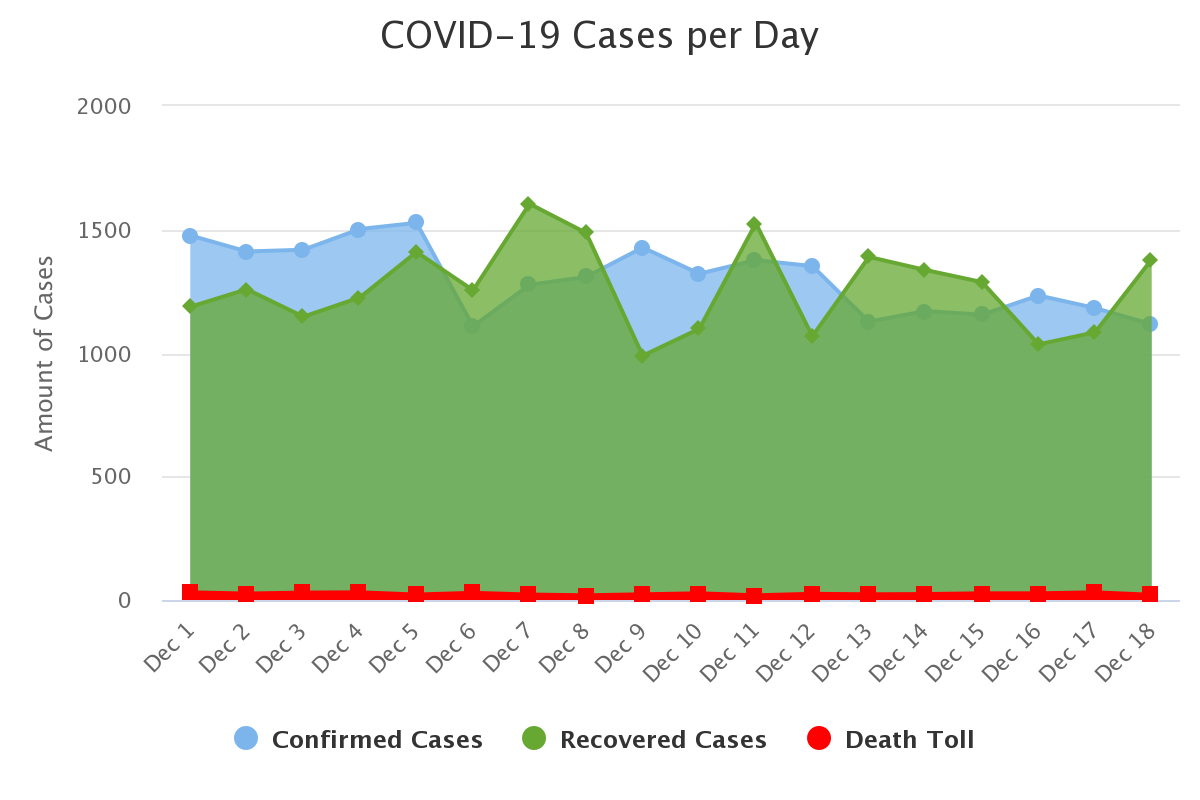
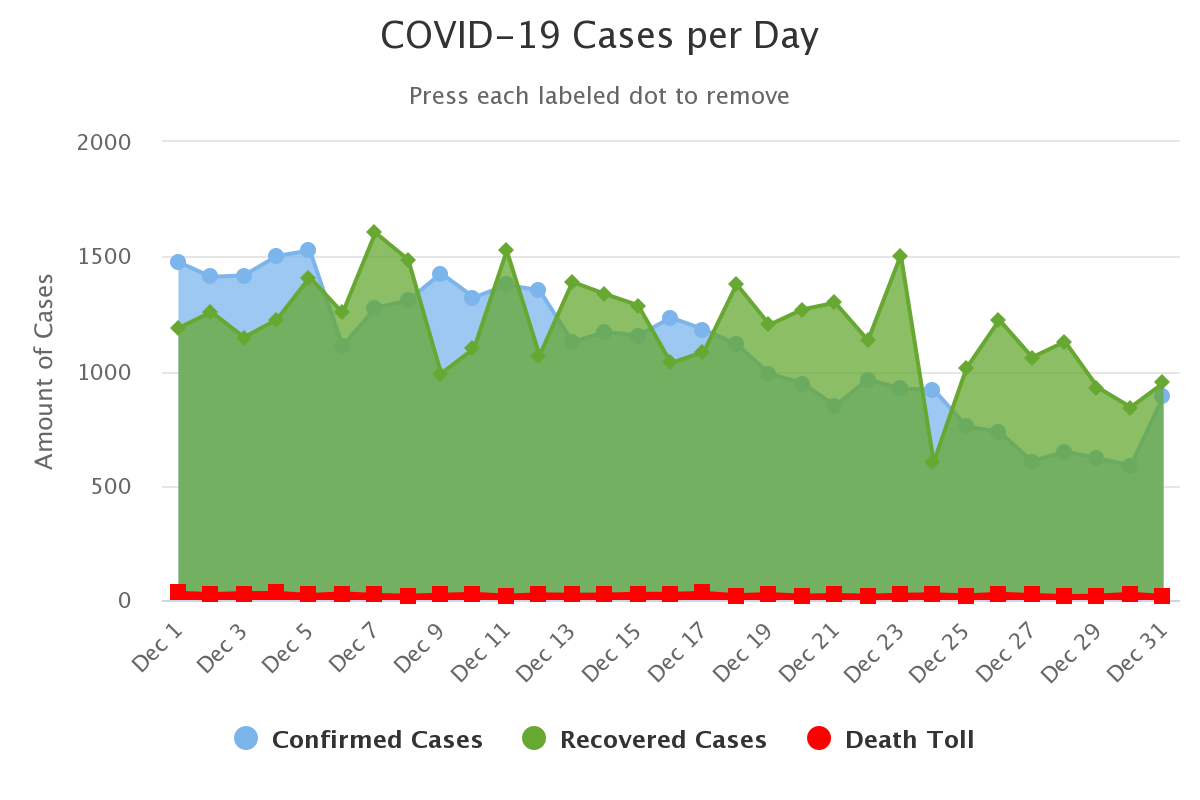
Coronavirus Data Update

diff --git a/InfoPage.html b/InfoPage.html
@@ -20,7 +20,7 @@
 <meta name="keywords" content="COVID-19,Info,ကိုဗစ်">
 <meta name="description" style="font-family:Unicode;" content="ဤ ၀က်ဘ်ဆိုက်တွင် မြန်မာနိုင်ငံနှင့်သက်ဆိုင်သော COVID-19 အချက်အလက်များနှင့် သတင်းအချက်အလက်များကို ရှာဖွေဖတ်ရှု့နိုင်ပါသည်။">
 <meta property="og:image" content="https://covid-19infoweb.netlify.app/images1/icon.png"/>
-<meta property="og:description" style="font-family:Unicode;" content="ဒီဇင်ဘာ ၃၀ ရက်၊ ည ၈:၀၀ ထုတ်ပြန်သောသတင်း" />
+<meta property="og:description" style="font-family:Unicode;" content="ဒီဇင်ဘာ ၃၁ ရက်၊ ည ၈:၀၀ ထုတ်ပြန်သောသတင်း" />
 <meta property="og:title" style="font-family:Unicode;" content="မြန်မာနိုင်ငံတွင်ကိုဗစ်ဖြစ်ပွားနေမှုအခြေအနေ" />
 <meta property="og:url" content="https://covid-19infoweb.netlify.app/" />
 <meta property="og:type"          content="informative website" />
@@ -99,7 +99,7 @@
             <div class="col-md-12 col-sm-12">
               <hr style="margin-bottom: 10px; background: #3F51B5">
  <marquee bgcolor="#3F51B5"> 
-  <div class="running" style='font-family:Unicode;font-size: 20px; color: #FFFFFF; font-weight: 600px'> ကျန်းမာရေးနှင့်အားကစားဝန်ကြီးဌာန၏ ဒီဇင်ဘာ ၃၀ ရက်၊ ည ၈:၀၀ တွင် ထုတ်ပြန်သောသတင်းအရ မြန်မာနိုင်ငံတွင် စစ်ဆေးပြီးသည့်ဓာတ်ခွဲနမူနာစုစုပေါင်း ၁,၇၉၄,၂၅၃ ခု၊ ဓာတ်ခွဲအတည်ပြုလူနာစုစုပေါင်း ၁၂၃,၄၇၀ ဦး၊ ပြန်လည်ကောင်းမွန်လာသူစုစုပေါင်း ၁၀၆,၁၂၁ ဦး၊ နှင့် သေဆုံးလူနာစုစုပေါင်း ၂,၆၆၄ ဦး ရှိပါသည်။ ။
+  <div class="running" style='font-family:Unicode;font-size: 20px; color: #FFFFFF; font-weight: 600px'> ကျန်းမာရေးနှင့်အားကစားဝန်ကြီးဌာန၏ ဒီဇင်ဘာ ၃၁ ရက်၊ ည ၈:၀၀ တွင် ထုတ်ပြန်သောသတင်းအရ မြန်မာနိုင်ငံတွင် စစ်ဆေးပြီးသည့်ဓာတ်ခွဲနမူနာစုစုပေါင်း ၁,၈၁၈,၂၆၀ ခု၊ ဓာတ်ခွဲအတည်ပြုလူနာစုစုပေါင်း ၁၂၄,၆၃၀ ဦး၊ ပြန်လည်ကောင်းမွန်လာသူစုစုပေါင်း ၁၀၇,၀၆၉ ဦး၊ နှင့် သေဆုံးလူနာစုစုပေါင်း ၂,၆၈၂ ဦး ရှိပါသည်။ ။
   </div>
     </marquee>
  <hr style=" margin-top: 4px; background:#3F51B5">

diff --git a/js/chart.js b/js/chart.js
@@ -1,5 +1,5 @@
 
-  var xAxisCatEnco = JSON.parse(`["Dec 1","Dec 2","Dec 3","Dec 4","Dec 5","Dec 6","Dec 7","Dec 8","Dec 9","Dec 10","Dec 11","Dec 12","Dec 13","Dec 14","Dec 15","Dec 16","Dec 17","Dec 18","Dec 19","Dec 20","Dec 21","Dec 22","Dec 23","Dec 24","Dec 25","Dec 26","Dec 27","Dec 28","Dec 29","Dec 30"]`);
+  var xAxisCatEnco = JSON.parse(`["Dec 1","Dec 2","Dec 3","Dec 4","Dec 5","Dec 6","Dec 7","Dec 8","Dec 9","Dec 10","Dec 11","Dec 12","Dec 13","Dec 14","Dec 15","Dec 16","Dec 17","Dec 18","Dec 19","Dec 20","Dec 21","Dec 22","Dec 23","Dec 24","Dec 25","Dec 26","Dec 27","Dec 28","Dec 29","Dec 30","Dec 31"]`);
         
   Highcharts.chart('daily_analytics_chart', {
   chart: {
@@ -24,7 +24,7 @@
             },
   series: [{
     name: 'Tests per day',
-    data: [18959,19680,22719,21390,23300,18541,19379,23348,20826,22241,20929,24099,18564,19115,23874,23109,23188,24501,22590,20526,21018,23485,23072,21515,19543,20143,16607,19108,18098,17010],
+    data: [18959,19680,22719,21390,23300,18541,19379,23348,20826,22241,20929,24099,18564,19115,23874,23109,23188,24501,22590,20526,21018,23485,23072,21515,19543,20143,16607,19108,18098,17010,24007],
     color: "black"
   }]
 });
@@ -51,15 +51,15 @@
             },
   series: [{
     name: 'Confirmed Cases',
-    data: [1476,1411,1418,1502,1527,1108,1276,1308,1427,1321,1376,1352,1127,1170,1155,1233,1182,1116,989,947,848,964,923,919,758,734,606,648,619,587]
+    data: [1476,1411,1418,1502,1527,1108,1276,1308,1427,1321,1376,1352,1127,1170,1155,1233,1182,1116,989,947,848,964,923,919,758,734,606,648,619,587,890]
   }, {
     name: 'Recovered Cases',
-    data: [1187,1258,1147,1225,1409,1254,1604,1486,989,1098,1525,1068,1389,1336,1287,1035,1084,1379,1202,1269,1298,1134,1506,602,1013,1223,1060,1128,928,842],
+    data: [1187,1258,1147,1225,1409,1254,1604,1486,989,1098,1525,1068,1389,1336,1287,1035,1084,1379,1202,1269,1298,1134,1506,602,1013,1223,1060,1128,928,842,948],
     color: "#66a832"
 
   }, {
     name: 'Death Toll',
-    data: [31,26,30,31,22,29,22,19,23,27,19,25,23,24,27,27,31,21,26,19,22,19,23,25,20,27,22,17,19,27],
+    data: [31,26,30,31,22,29,22,19,23,27,19,25,23,24,27,27,31,21,26,19,22,19,23,25,20,27,22,17,19,27,18],
     color: "red"
   }]
 });

diff --git a/index.html b/index.html
@@ -26,7 +26,7 @@
 <meta name="keywords" content="COVID-19,Info,Myanmar">
 <meta name="description" content="This is the website where you can find COVID-19 data, and information related to Myanmar (Burma)">
 <meta property="og:image" content="https://covid-19infoweb.netlify.app/images1/icon.png" />
-<meta property="og:description" content="Last Updated on December 30, 8:00 PM" />
+<meta property="og:description" content="Last Updated on December 31, 8:00 PM" />
 <meta property="og:title" content="COVID-19 Info Website" />
 <meta property="og:url" content="https://covid-19infoweb.netlify.app/" />
 <meta property="og:type"          content="informative website" />
@@ -99,7 +99,7 @@
           <div class="row">
 
             <div id="banner" class="col-md-12 col-sm-12" style="margin-top: 88px; font-weight: bold; font-size: 18px; 
-            color: #3F51B5;font-family: sans-serif;">Last Updated on Tue 30.12.2020</div>
+            color: #3F51B5;font-family: sans-serif;">Last Updated on Thur 31.12.2020</div>
           </div>
           
           <a id="contact" href="tel:2019">
@@ -116,7 +116,7 @@
   <div class="card-body">
     <h5 class="card-title">Total Lab Tests</h5>
     <p class="card-text" style="font-size: 18px;
-    font-weight: bold; color: #ffffff;">1,794,253</p>
+    font-weight: bold; color: #ffffff;">1,818,260</p>
   </div>
 </div>
 </div>
@@ -125,7 +125,7 @@
   <div class="card-body">
     <h5 class="card-title">Confirmed Cases</h5>
     <p class="card-text" style="font-size: 18px;
-    font-weight: bold; color: #ffffff;">123,470</p>
+    font-weight: bold; color: #ffffff;">124,630</p>
   </div>
 </div>
   </div>
@@ -134,7 +134,7 @@
   <div class="card-body">
     <h5 class="card-title">Recovered Cases</h5>
     <p class="card-text" style="font-size: 18px;
-    font-weight: bold; color: #ffffff;">106,121</p>
+    font-weight: bold; color: #ffffff;">107,069</p>
   </div>
 </div>
 </div>
@@ -144,7 +144,7 @@
   <div class="card-body">
     <h5 class="card-title">Official Death Toll</h5>
     <p class="card-text" style="font-size: 18px;
-    font-weight: bold; color: #ffffff;">2,664</p>
+    font-weight: bold; color: #ffffff;">2,682</p>
   </div>
 </div>
  </div>
